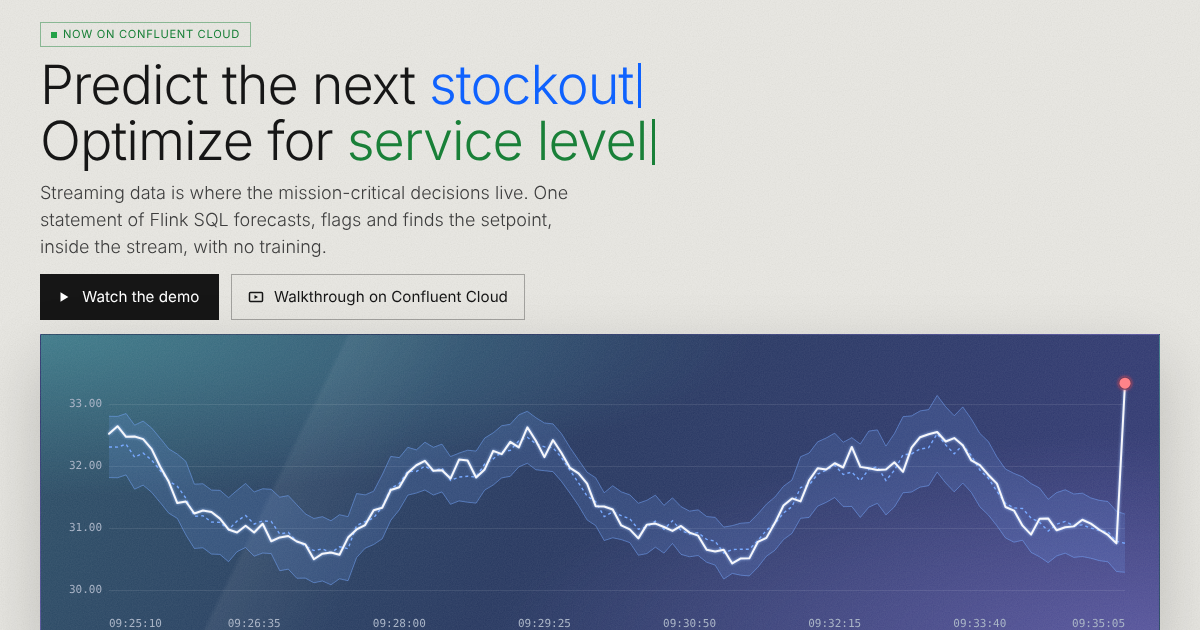
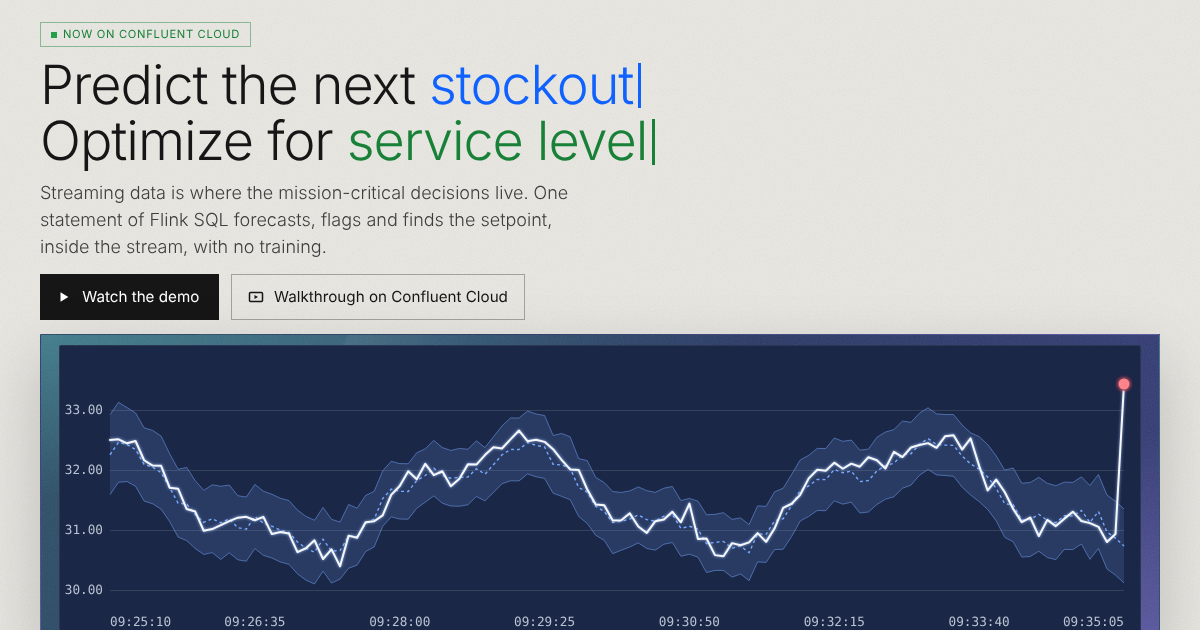
Chart readability: solid wells, larger type, stronger grid
Every plot sits on a calm solid navy well instead of the gradient, canvas text has a 10.5px floor with small labels nudged up, axis and secondary labels brighter, grid lines stronger, tooltips larger. Fixed overlapping labels in the twins and the value stage.

Claude-Session: https://claude.ai/code/session_01JLcHv6cFAYwFtSfArZfbhX

diff --git a/index.html b/index.html
@@ -739,6 +739,15 @@ body::before{background:var(--paper)}
 .uc[aria-selected="true"],body .dcard[aria-pressed="true"]{box-shadow:0 0 0 2px #0f62fe}
 .ind[aria-selected="true"]{box-shadow:0 0 0 2px #0f62fe}
 .stage::before{opacity:.18}
+
+/* ---------- chart readability: a calm solid well behind every plot ---------- */
+.stage .canvas-wrap,.plant-inner,.three-cv,.pg-chart,.tiles .tile,.qbox{background:#1b2746;border:1px solid rgba(255,255,255,.08)}
+.stage .canvas-wrap{border-radius:2px}
+.plant-inner{background:#18233f}
+.three-row{background:rgba(10,18,40,.35)}
+.uc .uc-cv{background:rgba(10,18,40,.45);padding:2px}
+.tip{background:#0f1830;border-color:rgba(255,255,255,.28);font-size:12.5px;line-height:1.45}
+.stage .readout span,.stage .eyebrow{color:#c3cbd8}
 </style>
 </head>
 <body>
@@ -1558,9 +1567,12 @@ $$('.tabs').forEach(tabs=>{const btns=$$('[role=tab]',tabs);btns.forEach(b=>b.ad
 /* one restrained light source: every canvas glow is kept faint */
 (function(){const d=Object.getOwnPropertyDescriptor(CanvasRenderingContext2D.prototype,'shadowBlur');if(d&&d.set)Object.defineProperty(CanvasRenderingContext2D.prototype,'shadowBlur',{get:d.get,set(v){d.set.call(this,v*0.3);},configurable:true});})();
 
+/* readable canvas type: nothing drawn below 10.5px, small labels nudged up */
+(function(){const d=Object.getOwnPropertyDescriptor(CanvasRenderingContext2D.prototype,'font');if(!d||!d.set)return;Object.defineProperty(CanvasRenderingContext2D.prototype,'font',{get:d.get,set(v){const m=/(\d+(?:\.\d+)?)px/.exec(v);if(m){const px=parseFloat(m[1]);const np=px<14?Math.max(10.5,px*1.1):px;v=v.replace(m[0],np.toFixed(1)+'px');}d.set.call(this,v);},configurable:true});})();
+
 /* ============ colors ============ */
-const C={ink:'#f6f7fb',ink2:'#d2d8e2',ink3:'#a9b4c6',ink4:'#8490a3',grid:'rgba(255,255,255,.09)',blue:'#0f62fe',blue2:'#4589ff',blue3:'#78a9ff',blue4:'#a6c8ff',band:'rgba(120,169,255,.16)',red:'#fa4d56',red2:'#ff8389',green:'#42be65',green2:'#6fdc8c',orange:'#ff832b',purple:'#be95ff',teal:'#08bdba',teal2:'#3ddbd9',bg:'#283a64',yellow:'#f1c21b'};
-const MONO='11px "IBM Plex Mono", Menlo, monospace';
+const C={ink:'#f6f7fb',ink2:'#d2d8e2',ink3:'#b9c3d3',ink4:'#95a0b2',grid:'rgba(255,255,255,.12)',blue:'#0f62fe',blue2:'#4589ff',blue3:'#78a9ff',blue4:'#a6c8ff',band:'rgba(120,169,255,.16)',red:'#fa4d56',red2:'#ff8389',green:'#42be65',green2:'#6fdc8c',orange:'#ff832b',purple:'#be95ff',teal:'#08bdba',teal2:'#3ddbd9',bg:'#283a64',yellow:'#f1c21b'};
+const MONO='11.5px "IBM Plex Mono", Menlo, monospace';
 
 /* ============ canvas + stage loop ============ */
 function Cv(canvas){this.c=canvas;this.ctx=canvas.getContext('2d');this.W=0;this.H=0;this.fit();}
@@ -1808,7 +1820,7 @@ function hoverIndex(layout,cv,ev){if(!layout)return -1;const rect=cv.c.getBoundi
   function drawProd(ctx,W,H,t){const m=t*12,cur=Math.min(m,12);const {L,R}=halves(W,H);
     /* left: two use cases, seven months each */
     let live=0;{const r=L,top=r.y+24,bot=r.y+r.h-16;monthAxis(ctx,r,top-2,bot);
-      for(let u=0;u<2;u++){const y=top+14+u*30;const s0=u*BESPOKE;txt(ctx,'use case '+(u+1),r.x,y-11,{px:8,c:C.ink3});let acc=s0;PH.forEach(([name,d],i)=>{const a=acc,b=acc+d;acc=b;if(m<=a)return;const x1=r.x+a/12*r.w,x2=r.x+Math.min(m,b)/12*r.w;ctx.fillStyle=i%2?'rgba(159,179,200,.35)':'rgba(159,179,200,.22)';ctx.fillRect(x1,y-5,Math.max(1,x2-x1),10);if(x2-x1>34)txt(ctx,name,x1+3,y,{px:8,c:C.ink2});});
+      for(let u=0;u<2;u++){const y=top+14+u*30;const s0=u*BESPOKE;txt(ctx,'use case '+(u+1),r.x,y-11,{px:8,c:C.ink3});let acc=s0;PH.forEach(([name,d],i)=>{const a=acc,b=acc+d;acc=b;if(m<=a)return;const x1=r.x+a/12*r.w,x2=r.x+Math.min(m,b)/12*r.w;ctx.fillStyle=i%2?'rgba(159,179,200,.35)':'rgba(159,179,200,.22)';ctx.fillRect(x1,y-5,Math.max(1,x2-x1),10);if(x2-x1>name.length*7+8)txt(ctx,name,x1+3,y,{px:8,c:C.ink2});});
         if(m>=s0+BESPOKE){live++;const x1=r.x+(s0+BESPOKE)/12*r.w,x2=r.x+cur/12*r.w;ctx.fillStyle='rgba(111,220,140,.8)';ctx.fillRect(x1,y-3,Math.max(2,x2-x1),6);ctx.save();ctx.shadowColor=C.green2;ctx.shadowBlur=8;ctx.fillStyle=C.green2;ctx.beginPath();ctx.arc(x1,y,3.5,0,Math.PI*2);ctx.fill();ctx.restore();txt(ctx,'live',x1+8,y-11,{px:8,c:C.green2});}}
       people(ctx,r.x+6,bot-4,5,'rgba(159,179,200,.8)');txt(ctx,'5 experts',r.x+62,bot-4,{px:8.5,c:C.ink3});
       header(ctx,r,'TODAY · BESPOKE MODELS','live '+live+' · first value in 7 mo',C.ink3);
@@ -1835,7 +1847,7 @@ function hoverIndex(layout,cv,ev){if(!layout)return -1;const rect=cv.c.getBoundi
     const lx=Math.min(X(last.x)+8,padL+pw-70);txt(ctx,'plateau '+last.c.toFixed(1)+'%',lx,Y(last.c)+(m>1?4:12),{px:9,c:C.ink2});txt(ctx,(m<0.3?'zero-shot ':'')+last.g.toFixed(1)+'%',lx,Y(last.g)-(m>1?4:0),{px:9,c:C.green2,w:500});
     let area=0;for(let i=1;i<P.length;i++){area+=(P[i].x-P[i-1].x)*((P[i].g-P[i].c+P[i-1].g-P[i-1].c)/2);}const usd=area*0.032;
     if(narrow){txt(ctx,'gap '+(last.g-last.c).toFixed(1)+' pts · $'+usd.toFixed(1)+'M margin recovered',padL+pw,Y(86.6),{px:8.5,a:'right',c:C.green2});}
-    else{const bx=W-padR+18;txt(ctx,'gap '+(last.g-last.c).toFixed(1)+' pts',bx,top+22,{px:9,c:C.ink2});txt(ctx,'$'+usd.toFixed(1)+'M',bx,top+46,{px:20,mono:false,c:C.green2,w:300});txt(ctx,'margin recovered',bx,top+66,{px:8.5,c:C.ink3});txt(ctx,'one mill, illustrative',bx,top+80,{px:8,c:C.ink4});}}
+    else{const bx=W-padR+18;txt(ctx,'gap '+(last.g-last.c).toFixed(1)+' pts',bx,top+22,{px:9,c:C.ink2});txt(ctx,'$'+usd.toFixed(1)+'M',bx,top+46,{px:20,mono:false,c:C.green2,w:300});txt(ctx,'margin recovered',bx,top+66,{px:8.5,c:C.ink3});txt(ctx,'illustrative',bx,top+80,{px:8,c:C.ink4});}}
 
   /* responsiveness: a signal travels to a decision, by batch and in the stream */
   const BATCH=[['signal',0],['nightly ETL',10],['weekly model run',40],['report',12],['meeting',12],['action',2]];const BATCH_S=['signal','ETL','model run','report','meeting','action'];const BT=76;
@@ -1844,7 +1856,7 @@ function hoverIndex(layout,cv,ev){if(!layout)return -1;const rect=cv.c.getBoundi
   function track(ctx,r,label,right,c,stops,pos,hedge,hedgeC,winText,winFrac,closed){const hc=c==='batch'?C.ink3:C.blue3;const hw=r.w<420?64:80;const pad=14;const bx=r.x+pad,bw=r.w-pad*2-hw-22;const y1=r.y+40,y2=r.y+r.h-30;
     header(ctx,r,label,right,hc);
     ctx.strokeStyle=c==='batch'?'rgba(159,179,200,.4)':'rgba(120,169,255,.5)';ctx.lineWidth=2;ctx.beginPath();ctx.moveTo(bx,y1);ctx.lineTo(bx+bw,y1);ctx.stroke();
-    const lastX={0:-1e9,1:-1e9};stops.forEach((s,i)=>{const x=bx+s.u*bw;ctx.fillStyle=s.done?(c==='batch'?'rgba(159,179,200,.9)':C.blue3):'rgba(159,179,200,.3)';ctx.beginPath();ctx.arc(x,y1,4,0,Math.PI*2);ctx.fill();const row=i%2;const w=s.n.length*5.2;const lx=i===0?x+w/2:i===stops.length-1?x-w/2:x;if(lx-w/2<lastX[row]+6)return;lastX[row]=lx+w/2;txt(ctx,s.n,x,y1+(row?15:-14),{px:8,a:i===0?'left':i===stops.length-1?'right':'center',c:s.done?C.ink2:C.ink3});});
+    const lastX={0:-1e9,1:-1e9};stops.forEach((s,i)=>{const x=bx+s.u*bw;ctx.fillStyle=s.done?(c==='batch'?'rgba(159,179,200,.9)':C.blue3):'rgba(159,179,200,.3)';ctx.beginPath();ctx.arc(x,y1,4,0,Math.PI*2);ctx.fill();const row=i%2;const w=s.n.length*7;const lx=i===0?x+w/2:i===stops.length-1?x-w/2:x;if(lx-w/2<lastX[row]+6)return;lastX[row]=lx+w/2;txt(ctx,s.n,x,y1+(row?15:-14),{px:8,a:i===0?'left':i===stops.length-1?'right':'center',c:s.done?C.ink2:C.ink3});});
     pos.forEach(p=>{const x=bx+p.u*bw;ctx.save();ctx.shadowColor=p.c;ctx.shadowBlur=10;ctx.fillStyle=p.c;ctx.beginPath();ctx.arc(x,y1,4,0,Math.PI*2);ctx.fill();ctx.restore();});
     const hx=bx+bw+22;txt(ctx,'safety margin',hx,y1-14,{px:8,c:C.ink3});ctx.fillStyle=hedgeC.replace('1)','.25)');ctx.fillRect(hx,y1-5,hw,10);ctx.fillStyle=hedgeC;ctx.fillRect(hx,y1-5,hw*hedge/0.2,10);txt(ctx,'+'+Math.round(hedge*100)+' % hedge',hx,y1+15,{px:8,c:hedgeC});
     dash(ctx,r.x,y2-6,r.x+r.w,y2-6);const wx=bx+winFrac*bw;ctx.fillStyle=closed?'rgba(241,194,27,.12)':'rgba(111,220,140,.15)';ctx.fillRect(bx,y2-2,wx-bx,8);txt(ctx,winText,bx,y2+14,{px:8,c:closed?C.yellow:C.green2});if(closed==='yes')txt(ctx,'closed before the decision',wx+6,y2+2,{px:8,c:C.red2});}
@@ -2090,7 +2102,7 @@ function countUp(b){const target=Number(b.dataset.count),pre=b.dataset.prefix||'
     text(si.label,si.x+si.w/2-5,si.y-8,{px:10,a:'center',c:P.ink2});
     const tx=1180+((st.t/40)%90);rr(tx,262,34,16,2,'rgba(0,7,20,.6)',P.steel,1);rr(tx+34,268,14,10,2,'rgba(0,7,20,.6)',P.steel,1);ctx.fillStyle=P.steel2;[tx+8,tx+26,tx+42].forEach(wx=>{ctx.beginPath();ctx.arc(X(wx),Y(280),3*S,0,Math.PI*2);ctx.fill();});
     /* sensors */
-    SENS.forEach(s=>{const on=st.hover===s||hl(s.eq);const c=on?P.blue4:P.blue3;ctx.save();if(on)glow(c,10);ctx.fillStyle=c;ctx.beginPath();ctx.arc(X(s.x),Y(s.y),(on?4:3)*S,0,Math.PI*2);ctx.fill();noglow();ctx.restore();ctx.strokeStyle='rgba(69,137,255,.35)';ctx.lineWidth=1*S;ctx.beginPath();ctx.arc(X(s.x),Y(s.y),7*S,0,Math.PI*2);ctx.stroke();if(on||st.focus==='layout'||st.focus==='sources')text(s.id,s.x+9,s.y-8,{px:8.5,mono:true,c:P.blue4});});
+    SENS.forEach(s=>{const on=st.hover===s||hl(s.eq);const c=on?P.blue4:P.blue3;ctx.save();if(on)glow(c,10);ctx.fillStyle=c;ctx.beginPath();ctx.arc(X(s.x),Y(s.y),(on?4:3)*S,0,Math.PI*2);ctx.fill();noglow();ctx.restore();ctx.strokeStyle='rgba(69,137,255,.35)';ctx.lineWidth=1*S;ctx.beginPath();ctx.arc(X(s.x),Y(s.y),7*S,0,Math.PI*2);ctx.stroke();if(st.hover===s)text(s.id,s.x+9,s.y-8,{px:8.5,mono:true,c:P.blue4});});
     ctx.globalAlpha=1;
     /* ---- control room / objectives ---- */
     ctx.globalAlpha=alphaFor('objectives');
@@ -2226,7 +2238,7 @@ function twin(spec){
   function noglow(){ctx.shadowBlur=0;}
   function hl(id){return st.highlight===id;}
   function road(a,b,c){line([a,b],c||P.steel2,2);const L=Math.hypot(b.x-a.x,b.y-a.y);const n=Math.floor(L/14);const ph=(st.t/60)%14;for(let i=0;i<n;i++){const d=i*14+ph;if(d>L)continue;const u=d/L;ctx.fillStyle=P.steel;ctx.fillRect(X(lerp(a.x,b.x,u))-1.5*S,Y(lerp(a.y,b.y,u))-1.5*S,3*S,3*S);}}
-  function spark(s){const {x,y,data,lo,hi,limit,label,unit,color}=s;const w=110,h=46;rr(x,y,w,h,2,'rgba(0,7,20,.85)',P.line,1);const top=y+15,ch=h-20,n=data.length;text(label,x+6,y+8,{px:8,mono:true,c:P.ink3});text(data[n-1].toFixed(s.dec==null?1:s.dec)+' '+unit,x+w-6,y+8,{px:8.5,mono:true,a:'right',c:color});ctx.beginPath();data.forEach((v,i)=>{const px=x+5+(w-10)*i/(n-1),py=top+ch-(clamp(v,lo,hi)-lo)/(hi-lo)*ch;i?ctx.lineTo(X(px),Y(py)):ctx.moveTo(X(px),Y(py));});ctx.strokeStyle=color;ctx.lineWidth=1.4*S;ctx.stroke();if(limit!=null){const ly=top+ch-(limit-lo)/(hi-lo)*ch;line([pt(x+5,ly),pt(x+w-5,ly)],P.red,1,[2,2]);}}
+  function spark(s){const {x,y,data,lo,hi,limit,label,unit,color}=s;const w=150,h=48;rr(x,y,w,h,2,'rgba(0,7,20,.85)',P.line,1);const top=y+15,ch=h-20,n=data.length;text(label,x+6,y+8,{px:8,mono:true,c:P.ink3});text(data[n-1].toFixed(s.dec==null?1:s.dec)+' '+unit,x+w-6,y+8,{px:8.5,mono:true,a:'right',c:color});ctx.beginPath();data.forEach((v,i)=>{const px=x+5+(w-10)*i/(n-1),py=top+ch-(clamp(v,lo,hi)-lo)/(hi-lo)*ch;i?ctx.lineTo(X(px),Y(py)):ctx.moveTo(X(px),Y(py));});ctx.strokeStyle=color;ctx.lineWidth=1.4*S;ctx.stroke();if(limit!=null){const ly=top+ch-(limit-lo)/(hi-lo)*ch;line([pt(x+5,ly),pt(x+w-5,ly)],P.red,1,[2,2]);}}
   function callout(o){const padx=8,lh=14,w=Math.max(...o.l.map(t=>{font(10.5,true);return ctx.measureText(t).width/S;}))+padx*2,h=o.l.length*lh+10;let x=o.x,y=o.y;if(x+w>1290)x=1290-w;if(o.to){const sx=clamp(o.to.x,x,x+w),sy=clamp(o.to.y,y,y+h);ctx.save();ctx.globalAlpha*=0.8;line([pt(sx,sy),pt(o.to.x,o.to.y)],o.c,1);dot(o.to.x,o.to.y,2.5,o.c);ctx.restore();}ctx.save();glow(o.c,10);rr(x,y,w,h,2,'rgba(0,7,20,.92)',o.c,1);noglow();ctx.restore();ctx.fillStyle=o.c;ctx.fillRect(X(x),Y(y),2*S,h*S);o.l.forEach((t,i)=>text(t,x+padx,y+7+lh*i+lh/2-2,{px:10.5,mono:true,c:i===0?P.ink:P.ink2}));}
   const D={ctx:null,X,Y,text,rr,line,dot,metal,glow,noglow,P,pt,road,st,N,hl,S:1,font};
   /* node icons: simple geometry inside the box */
@@ -2267,7 +2279,7 @@ function twin(spec){
     Object.keys(N).forEach(drawNode);
     if(spec.extra)spec.extra(D);
     Object.keys(st.sparks).forEach(k=>spark(st.sparks[k]));
-    SIG.forEach(s=>{const on=st.hover===s||hl(s.node);const c=on?P.blue4:P.blue3;ctx.save();if(on)glow(c,10);dot(s.x,s.y,on?4:3,c);noglow();ctx.restore();ctx.strokeStyle='rgba(69,137,255,.35)';ctx.lineWidth=1*S;ctx.beginPath();ctx.arc(X(s.x),Y(s.y),7*S,0,Math.PI*2);ctx.stroke();if(on||st.focus==='layout'||st.focus==='sources')text(s.id,s.x+9,s.y-8,{px:8.5,mono:true,c:P.blue4});});
+    SIG.forEach(s=>{const on=st.hover===s||hl(s.node);const c=on?P.blue4:P.blue3;ctx.save();if(on)glow(c,10);dot(s.x,s.y,on?4:3,c);noglow();ctx.restore();ctx.strokeStyle='rgba(69,137,255,.35)';ctx.lineWidth=1*S;ctx.beginPath();ctx.arc(X(s.x),Y(s.y),7*S,0,Math.PI*2);ctx.stroke();if(st.hover===s)text(s.id,s.x+9,s.y-8,{px:8.5,mono:true,c:P.blue4});});
     ctx.globalAlpha=1;
     /* objectives */
     ctx.globalAlpha=alphaFor('objectives');

diff --git a/playground.html b/playground.html
@@ -170,11 +170,6 @@ canvas.stage-canvas{display:block;width:100%;height:100%;touch-action:none}
 .hero .stage{box-shadow:0 30px 80px rgba(0,0,0,.3)}
 .hero .canvas-wrap{height:clamp(300px,46vh,520px)}
 
-/* draw stage */
-.draw-wrap{height:clamp(280px,42vh,460px);cursor:crosshair}
-.draw-wrap .ghost{position:absolute;inset:0;display:flex;align-items:center;justify-content:center;pointer-events:none;color:var(--ink-3);font-size:1.05rem;text-align:center;padding:1rem;transition:opacity .25s}
-.draw-wrap .ghost kbd{font:inherit;color:var(--ink)}
-.draw-wrap.has .ghost{opacity:0}
 
 /* agent pipeline */
 .pipe{position:relative;display:grid;grid-template-columns:repeat(5,minmax(0,1fr));gap:12px;align-items:stretch}
@@ -744,6 +739,15 @@ body::before{background:var(--paper)}
 .uc[aria-selected="true"],body .dcard[aria-pressed="true"]{box-shadow:0 0 0 2px #0f62fe}
 .ind[aria-selected="true"]{box-shadow:0 0 0 2px #0f62fe}
 .stage::before{opacity:.18}
+
+/* ---------- chart readability: a calm solid well behind every plot ---------- */
+.stage .canvas-wrap,.plant-inner,.three-cv,.pg-chart,.tiles .tile,.qbox{background:#1b2746;border:1px solid rgba(255,255,255,.08)}
+.stage .canvas-wrap{border-radius:2px}
+.plant-inner{background:#18233f}
+.three-row{background:rgba(10,18,40,.35)}
+.uc .uc-cv{background:rgba(10,18,40,.45);padding:2px}
+.tip{background:#0f1830;border-color:rgba(255,255,255,.28);font-size:12.5px;line-height:1.45}
+.stage .readout span,.stage .eyebrow{color:#c3cbd8}
 /* ---- playground ---- */
 .pg-hero .hero-head{margin-bottom:0}
 .pg-built{font-family:var(--font-mono);font-size:.78rem;color:var(--ink-3);margin-top:.4rem}
